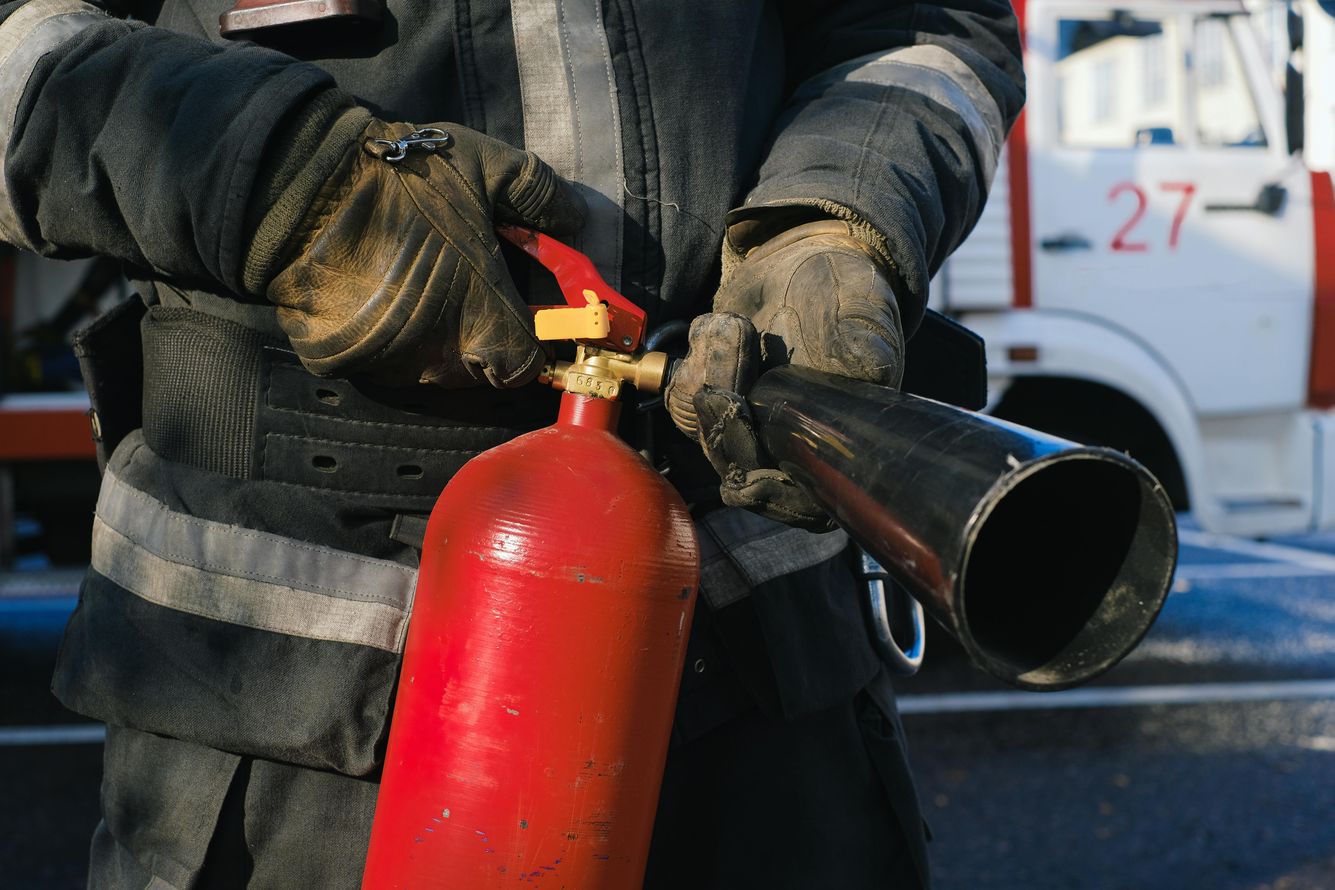
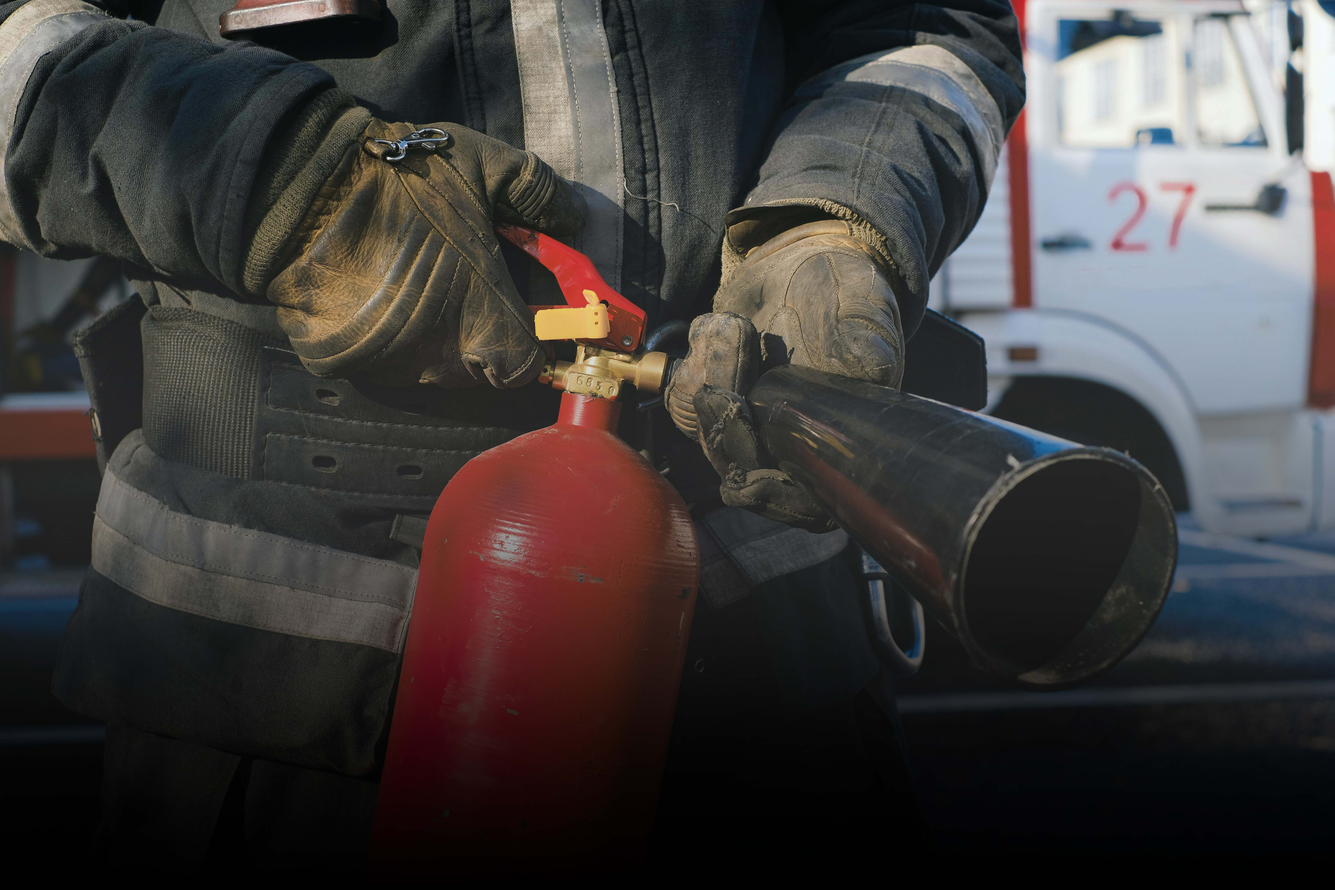
create fireExtinguisherServices page

diff --git a/app/fire-extinguisher-services/page.tsx b/app/fire-extinguisher-services/page.tsx
@@ -1,0 +1,245 @@
+"use client";
+
+import Image from "next/image";
+import extinguisher from "../../public/extinguish.jpg";
+import Form from "../ui/form/Form";
+import { BsChevronDown, BsChevronUp, BsFacebook, BsFillPinMapFill, BsYelp } from "react-icons/bs";
+import Button from "../ui/button3/Button3";
+import { useState } from "react";
+
+export default function FireExtinguisherServices() {
+    const [currentIdx, setCurrentIdx] = useState(0);
+
+    const fireFAQ = [
+        {
+            title: "FIRE EXTINGUISHER INSPECTIONS",
+            body: <div>
+                <p>Regular inspections of your fire extinguishers is crutial to you and your business's safety. Get your
+                    facility's extinguishers inspected for their location, accessibility and funcitonality. Our liscenesed team will
+                    make sure that your extinguishers are fully up to code and ready if you ever need them.
+                </p>
+            </div>
+        },
+        {
+            title: "FIRE EXTINGUISHER TESTING",
+            body: <div>
+                <p>Regular inspections of your fire extinguishers is crutial to you and your business's safety. Get your
+                    facility's extinguishers inspected for their location, accessibility and funcitonality. Our liscenesed team will
+                    make sure that your extinguishers are fully up to code and ready if you ever need them.
+                </p>
+            </div>
+        },
+        {
+            title: "FIRE EXTINGUISHER RECHARGE",
+            body: <div>
+                <p>Regular inspections of your fire extinguishers is crutial to you and your business's safety. Get your
+                    facility's extinguishers inspected for their location, accessibility and funcitonality. Our liscenesed team will
+                    make sure that your extinguishers are fully up to code and ready if you ever need them.
+                </p>
+            </div>
+        },
+        {
+            title: "HANDS-ON TRAINING",
+            body: <div>
+                <p>Regular inspections of your fire extinguishers is crutial to you and your business's safety. Get your
+                    facility's extinguishers inspected for their location, accessibility and funcitonality. Our liscenesed team will
+                    make sure that your extinguishers are fully up to code and ready if you ever need them.
+                </p>
+            </div>
+        },
+    ]
+
+    const handleCurrentIdx = (getCurrentIdx: number) => {
+        currentIdx === getCurrentIdx ? setCurrentIdx(null) : setCurrentIdx(getCurrentIdx)
+    }
+
+    return (
+        <section className="text-sm md:text-base">
+            <div className="mt-52 flex justify-center items-center">
+                <Image
+                    loading="eager"
+                    src={extinguisher}
+                    className="pointer-events-none -z-10 h-screen fixed object-cover"
+                    width={1920}
+                    height={1080}
+                    alt="photo of staircase sign"
+                    placeholder="blur"
+                />
+            </div>
+
+
+            <div className="flex flex-col">
+
+
+
+                <div className="px-5 z-10 lg:px-14 mx-5 lg:mx-14 md:px-14 py-10 rounded-md bg-white flex flex-col gap-5">
+                    <h1 className="text-3xl md:text-4xl lg:text-5xl">FIRE EXTINGUISHERS</h1>
+                    <article className="flex flex-col gap-5">
+                        <p className="">Fire extinguishers are a critical first line of defense against
+                            small fires, enabling safe evacuation and mitigating potential damage. However,
+                            not all fires are the same—there are five distinct classifications, some requiring
+                            a specific extinguishing agent for effective suppression. Our certified fire extinguisher
+                            specialists will assess your facility and provide tailored recommendations to ensure optimal
+                            fire protection.</p>
+                        <p>Whether you operate a commercial kitchen, an industrial facility, or any other
+                            business environment, we offer a comprehensive range of extinguishing solutions designed to safeguard
+                            your personnel, property, and operations.</p>
+                    </article>
+                    <Button name="REQUEST QUOTE" to="/contact" />
+                </div>
+
+
+
+                <div className="pt-20 py-10 -mt-10 md:px-14 px-5 flex gap-5 flex-col bg-neutral-100">
+                    <h2 className="text-3xl md:text-4xl lg:text-5xl">WHAT WE PROVIDE</h2>
+                    <article className="flex flex-col gap-5">
+                        <p>At Elite Brothers Fire we provide any type of fire extinguisher to fit your needs, proper fire extinguisher
+                            placement, regular fire extinguisher inspections and fire extinguisher installations.
+                            We consider everything from your building size and layout to placement regulations while following
+                            local safety and building codes. When you work with us you know you are getting quality service from a
+                            local familiy owen business that is fully liscensed.</p>
+                    </article>
+                    <div>
+                        {
+                            fireFAQ.map((item, idx) => {
+                                return <div key={idx} className="bg-EliteRed border-b-2 border-EliteRed2 flex flex-col gap-5 first-of-type:rounded-t-md last-of-type:rounded-b-md p-10 text-white" onClick={() => handleCurrentIdx(idx)}>
+                                    <div className="flex justify-between items-end">
+                                        <span className="text-lg font-bold">{item.title}</span>
+                                        {
+                                            currentIdx === idx ? <BsChevronUp /> : <BsChevronDown />
+                                        }
+                                    </div>
+                                    <span className={currentIdx === idx ? "block" : "hidden"}>{item.body}</span>
+                                </div>
+                            })
+                        }
+                    </div>
+                </div>
+            </div>
+
+
+
+            {/* <div className="w-full flex flex-col justify-center items-center relative">
+                <div className="lg:mx-14 mx-5 -top-64 px-5 lg:px-14 justify-center absolute md:px-14 py-10 flex gap-5 flex-col rounded-md bg-white">
+                    <h1 className="text-5xl">FIRE EXTINGUISHERS</h1>
+                    <article className="flex flex-col gap-5">
+                        <p>Fire extinguishers are a critical first line of defense against
+                            small fires, enabling safe evacuation and mitigating potential damage. However,
+                            not all fires are the same—there are five distinct classifications, some requiring
+                            a specific extinguishing agent for effective suppression. Our certified fire extinguisher
+                            specialists will assess your facility and provide tailored recommendations to ensure optimal
+                            fire protection.</p>
+                        <p>Whether you operate a commercial kitchen, an industrial facility, or any other
+                            business environment, we offer a comprehensive range of extinguishing solutions designed to safeguard
+                            your personnel, property, and operations.</p>
+                    </article>
+                    <Button name="REQUEST QUOTE" to="/contact" />
+                </div>
+
+
+
+                <div className="w-full py-10 pt-52 md:pt-48 lg:pt-40 xl:pt-32 md:px-14 px-5 flex gap-5 flex-col bg-neutral-100">
+                    <h2 className="text-5xl">WHAT WE PROVIDE</h2>
+                    <article className="flex flex-col gap-5">
+                        <p>At Elite Brothers Fire we provide any type of fire extinguisher to fit your needs, proper fire extinguisher
+                            placement, regular fire extinguisher inspections and fire extinguisher installations.
+                            We consider everything from your building size and layout to placement regulations while following
+                            local safety and building codes. When you work with us you know you are getting quality service from a
+                            local familiy owen business that is fully liscensed.</p>
+                    </article>
+                    <div className="w-full bg-white">
+                        {
+                            fireFAQ.map((item, idx) => {
+                                return <div key={idx} className="bg-EliteRed border-b-2 border-EliteRed2 flex flex-col gap-5 first-of-type:rounded-t-md last-of-type:rounded-b-md p-10 text-white" onClick={() => handleCurrentIdx(idx)}>
+                                    <div className="flex justify-between items-end">
+                                        <span className="text-lg font-bold">{item.title}</span>
+                                        {
+                                            currentIdx === idx ? <BsChevronUp /> : <BsChevronDown />
+                                        }
+                                    </div>
+                                    <span className={currentIdx === idx ? "block" : "hidden"}>{item.body}</span>
+                                </div>
+                            })
+                        }
+                    </div>
+                </div>
+
+
+            </div> */}
+
+            {/* <div className="relative py-10 bg-neutral-100 z-10 px-5 md:px-14 flex items-center justify-center">
+                <div className="flex flex-col lg:flex-row gap-10 w-full bg-gradient-to-t from-neutral-200 to-white p-5 rounded-md shadow-xl">
+                    <div className="lg:w-1/2 flex flex-col gap-5">
+                        <div className="flex flex-col gap-10 w-full">
+                            <h2 className="text-3xl md:text-4xl lg:text-5xl">WE&#39;RE READY TO HELP</h2>
+                            <p className="text-lg text-neutral-600">
+                                Contact us today and connect with a member of our team! Fill out the form below, call, text or email us!
+                            </p>
+                        </div>
+                        <Form />
+                    </div>
+                    <div className="lg:w-1/2 flex text-lg flex-col gap-10">
+                        <h2 className="text-3xl md:text-4xl lg:text-5xl">OUR INFORMATION</h2>
+                        <div className="flex flex-col gap-10">
+
+
+                            <div className="flex flex-col gap-2">
+                                <h3 className="font-semibold text-2xl">Phone</h3>
+                                <div>
+                                    <span className="font-semibold text-neutral-600">Main Phone </span>
+                                    <a href="tel:+16152009308"
+                                        aria-label="call us at 6152009308" className="underline text-EliteRed">(615) 200-9308</a>
+                                </div>
+                                <div>
+                                    <span className="font-semibold text-neutral-600">Alternate Phone </span>
+                                    <a href="tel:+16158402626"
+                                        aria-label="or call us at 6158402626" className="underline text-EliteRed">(615) 840-2626</a>
+                                </div>
+                            </div>
+
+
+                            <div className="flex flex-col gap-2">
+                                <h3 className="font-semibold text-2xl">Email</h3>
+                                <span className="text-neutral-600" >customerservice@elitebrothersfire.com</span>
+                            </div>
+                            <div className="flex flex-col gap-2">
+                                <h3 className="font-semibold text-2xl">Address</h3>
+                                <span className="text-neutral-600">
+                                    1051 Mt. Vernon Road
+                                    Bethpage, TN 37022
+                                </span>
+                                <div className="flex gap-2 text-neutral-600">
+                                    <BsFillPinMapFill size={25} />
+                                    <a
+                                        href="https://www.google.com/maps/place/1051+Mt+Vernon+Rd,+Bethpage,+TN+37022/@36.542515,-86.3439939,17z/data=!3m1!4b1!4m6!3m5!1s0x88642ca620361f03:0xde436af8afc3267c!8m2!3d36.542515!4d-86.341419!16s%2Fg%2F11gdkyhzf_?entry=ttu&g_ep=EgoyMDI1MDEyOC4wIKXMDSoJLDEwMjExMjM0SAFQAw%3D%3D"
+                                        target="_blank"
+                                        className="underline text-EliteRed"
+                                    >
+                                        Get Directions
+                                    </a>
+                                </div>
+                            </div>
+                            <div className="flex flex-col gap-2">
+                                <h3 className="font-semibold text-2xl">Social</h3>
+                                <div className="flex gap-2 text-neutral-600">
+                                    <a
+                                        href="https://www.facebook.com/people/Elite-Brothers-Fire-and-Safety/100079015032455/"
+                                        target="_blank"
+                                    >
+                                        <BsFacebook size={25} className="duration-200 hover:text-EliteRed" />
+                                    </a>
+                                    <a
+                                        href="https://www.yelp.com/biz/elite-brothers-fire-and-safety-bethpage?utm_campaign=yelp_api_v3&utm_medium=api_v3_business_lookup&utm_source=MFyzcjahxBMNAyHg85HGjg"
+                                        target="_blank"
+                                    >
+                                        <BsYelp size={25} className="duration-200 hover:text-EliteRed" />
+                                    </a>
+                                </div>
+                            </div>
+                        </div>
+                    </div>
+                </div>
+            </div> */}
+        </section>
+    );
+}

diff --git a/app/contact/page.tsx b/app/contact/page.tsx
@@ -25,8 +25,8 @@ export default function Contact() {
                 </h1>
             </div>
 
-            <div className="relative py-10 bg-white z-10 px-5 md:px-10 flex items-center justify-center">
-                <div className="flex flex-col lg:flex-row gap-10 w-full bg-gradient-to-t from-neutral-200 to-neutral-100 p-5 rounded-md shadow-xl">
+            <div className="relative py-10 bg-neutral-100 z-10 px-5 md:px-14 flex items-center justify-center">
+                <div className="flex flex-col lg:flex-row gap-10 w-full bg-gradient-to-t from-neutral-200 to-white p-5 rounded-md shadow-xl">
                     <div className="lg:w-1/2 flex flex-col gap-5">
                         <div className="flex flex-col gap-10 w-full">
                             <h2 className="text-3xl md:text-4xl lg:text-5xl">WE&#39;RE READY TO HELP</h2>

diff --git a/app/ui/form/Form.tsx b/app/ui/form/Form.tsx
@@ -26,8 +26,6 @@ const Form = () => {
 
         setStatus("loading")
 
-        console.log(formData)
-
         try {
             const response = await fetch("/api/submit-form", {
                 method: "POST",
